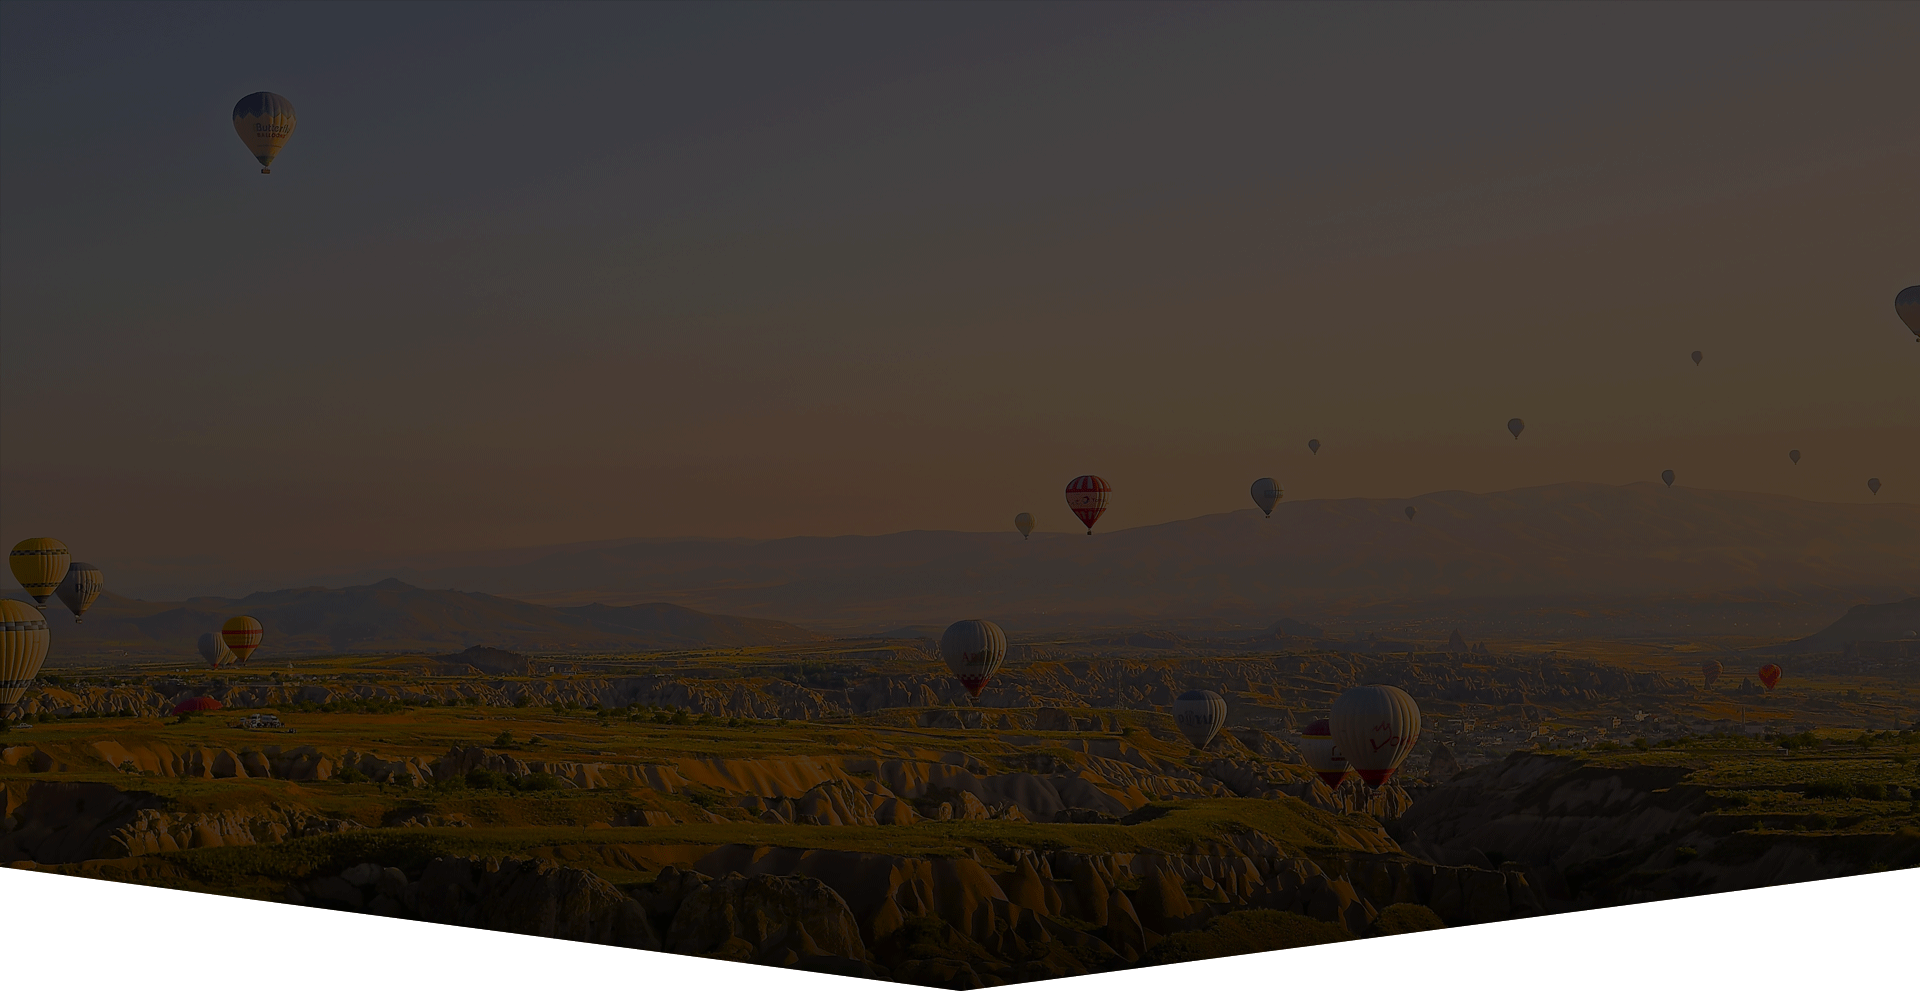
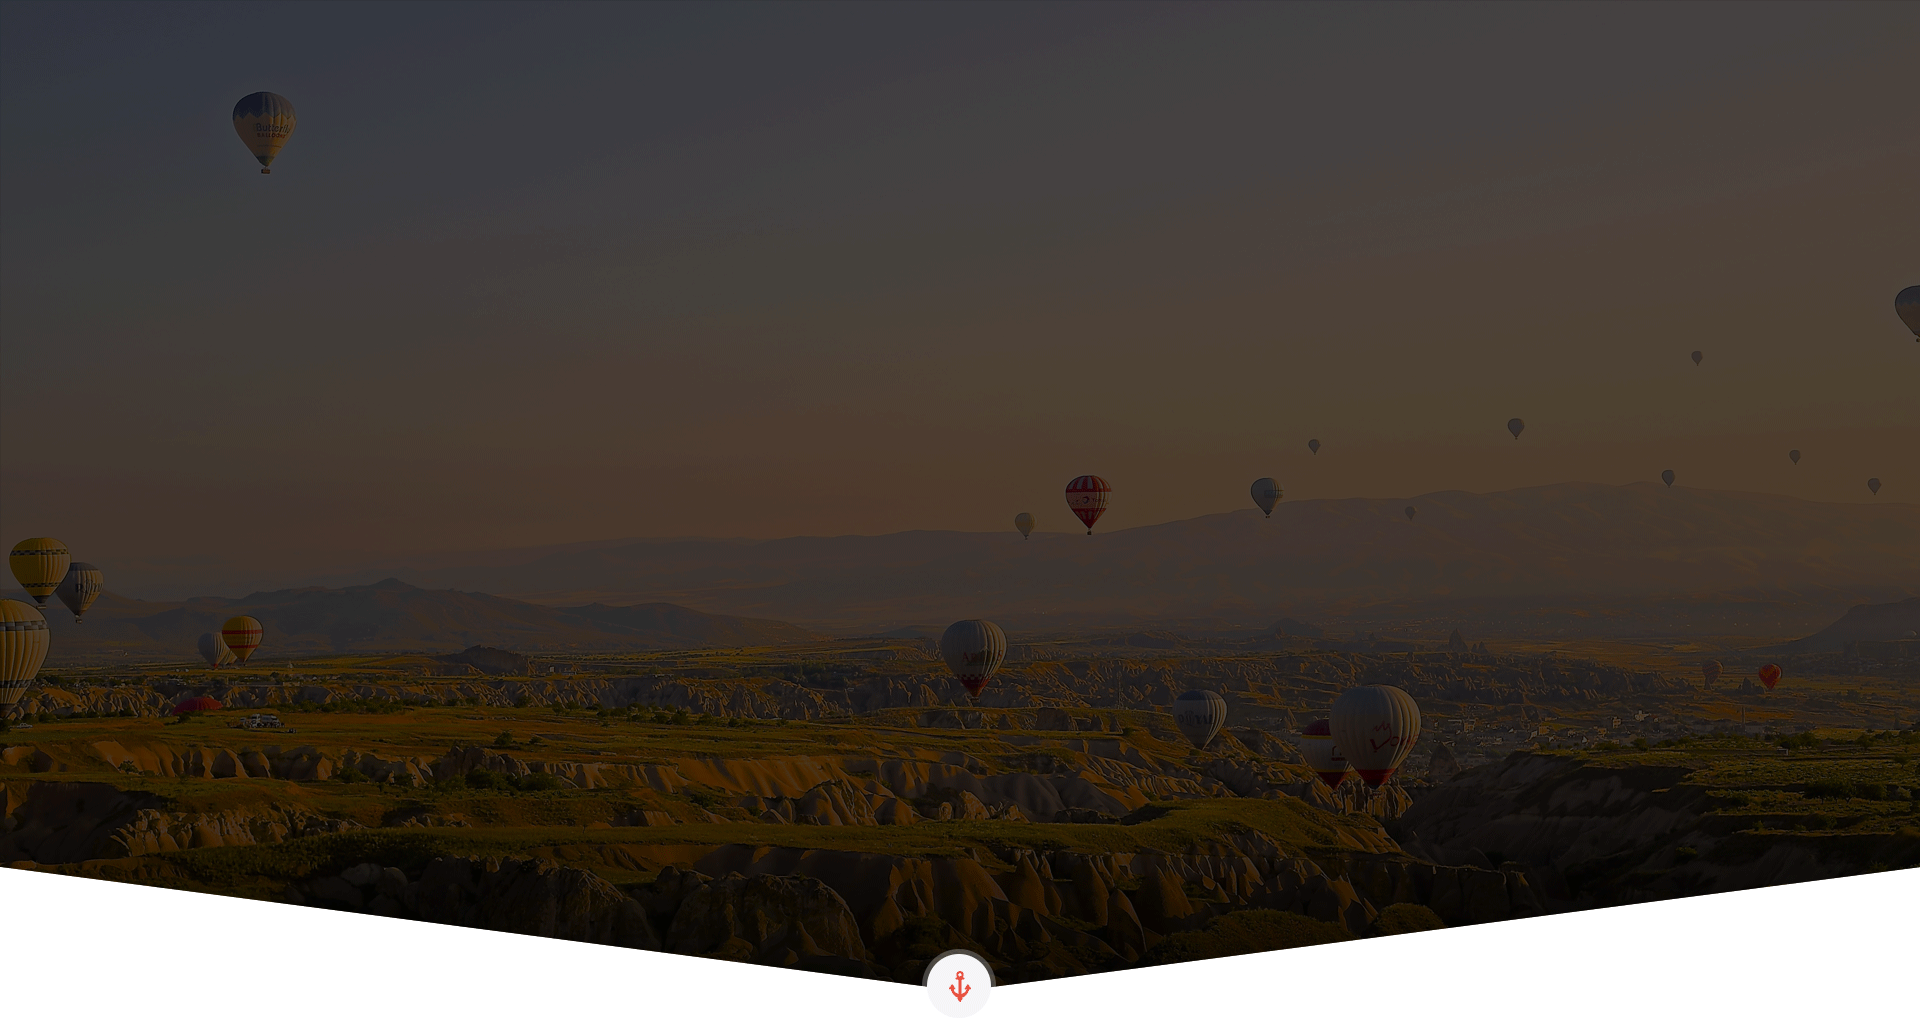
Slider блокыг бүрэн responsive болгож хийв

diff --git a/app/index.html b/app/index.html
@@ -4,7 +4,6 @@
     <meta name="viewport" content="width=device-width, initial-scale=1" />
     <link rel="preconnect" href="https://fonts.gstatic.com">
     <link href="https://fonts.googleapis.com/css2?family=Open+Sans:ital,wght@0,300;0,400;0,600;0,700;1,300;1,400&display=swap" rel="stylesheet">
-    
     <title>Explore, Dream, Escape</title>
     <meta
       name="keywords"
@@ -39,21 +38,26 @@
           <div></div>
           <div></div>
         </div>
-      <div class="slider">
-        <h3>Our Clients Are Our First Priority</h3>
-        <h1>Welcome to bino</h1>
-        <img src="./assets/images/line-dot-line.png" alt="solidImage"/>
-        <p>Lorem Ipsum is simply dummy text of the printing and typesetting industry. Lorem Ipsum has been the industry's standard dummy text ever since the 1500s, when an unknown printer took a galley of type and scrambled it to make a type specimen book.</p>
-        <button>Get started now</button>
-        <button>learn more</button>
-        <div>leftArrow</div>
-        <div>RightArrow</div>
       </div>
-      <div><img src="./assets/images/downIcon.png" alt="zanguuImage"/></div>
-  </div>
-  <picture class="header__background__image">
-    <img src="assets/images/headerBG.png" />
-  </picture>
+      <div class="slider slider--centered">
+        <div class="wrapper wrapper--py-header">
+          <h3 class="slider__title slider__title--small">Our Clients Are Our First Priority</h3>
+          <h1 class="slider__title slider__title--large">Welcome to bino</h1>
+          <img class="slider__line-dot-line" src="./assets/images/line-dot-line.png" alt="solidImage"/>
+          <p class="slider__text">Lorem Ipsum is simply dummy text of the printing and typesetting industry. Lorem Ipsum has been the industry's standard dummy text ever since the 1500s, when an unknown printer took a galley of type and scrambled it to make a type specimen book.</p>
+          <a href="javascript:void()" class="btn btn--orange btn--256">Get started now</a>
+          <a href="javascript:void()" class="btn btn--default btn--256">learn more</a>
+        </div>
+        <div class="slider__leftArrow">&#8249;</div>
+        <div class="slider__rightArrow">&#8250;</div>
+      </div>
+        <picture class="header__background__image">
+            <source media="(min-width:1200px)" srcset="assets/images/headerBG.png">
+            <source media="(min-width:700px)" srcset="assets/images/headerBGMedium.png">
+            <source media="(min-width:600px)" srcset="assets/images/headerBGSmall.png">
+            <source media="(min-width:465px)" srcset="assets/images/headerBGSmallest.png">
+            <img src="assets/images/headerBGSmallest.png" alt="smallScreenImage" style="width:auto;">
+        </picture>
     </header>
     <script src="./assets/scripts/App.js"></script>
   </body>

diff --git a/app/assets/styles/modules/_slider.css b/app/assets/styles/modules/_slider.css
@@ -1,0 +1,115 @@
+.slider {
+  position: relative;
+  /*  background-color: rgba($mainGrey, 0.3); */
+
+  &--centered {
+    text-align: center;
+  }
+  &__title {
+    color: $mainWhite;
+  }
+  &__title--small {
+    font-size: $fs14;
+    @mixin atSmall {
+      font-size: $fs16;
+    }
+    @mixin atMedium {
+      font-size: $fs24;
+    }
+    @mixin atLarge {
+      font-size: $fs24;
+    }
+  }
+  &__title--large {
+    font-size: 22px;
+    text-transform: uppercase;
+    @mixin atSmall {
+      font-size: 32px;
+    }
+    @mixin atMedium {
+      font-size: 54px;
+    }
+    @mixin atLarge {
+      font-size: 74px;
+    }
+  }
+
+  &__text {
+    color: $mainWhite;
+    font-size: $fs10;
+    width: 295px;
+    text-align: justify;
+    margin-left: auto;
+    margin-right: auto;
+    padding-bottom: 20px;
+    @mixin atSmall {
+      font-size: $fs12;
+      width: 380px;
+      padding-bottom: 40px;
+    }
+    @mixin atMedium {
+      font-size: $fs14;
+      width: 430px;
+    }
+    @mixin atLarge {
+      color: $mainWhite;
+      font-size: $fs14;
+      width: 578px;
+      text-align: justify;
+      margin-left: auto;
+      margin-right: auto;
+      padding-bottom: 74px;
+    }
+  }
+  &__leftArrow,
+  &__rightArrow {
+    position: absolute;
+    top: 10%;
+    color: $mainWhite;
+    font-size: 20px;
+    padding-bottom: 5px;
+    padding-left: 10px;
+    padding-right: 10px;
+    cursor: pointer;
+    background-color: $mainGrey;
+    @mixin atSmall {
+      top: 15%;
+    }
+    @mixin atMedium {
+      top: 32%;
+      padding-bottom: 6px;
+      padding-left: 14px;
+      padding-right: 14px;
+    }
+    @mixin atLarge {
+      top: 50%;
+      transform: translateY(-50%);
+      color: $mainWhite;
+      font-size: 40px;
+      padding-bottom: 10px;
+      padding-left: 20px;
+      padding-right: 20px;
+      cursor: pointer;
+      background-color: $mainGrey;
+    }
+  }
+  &__leftArrow:hover,
+  &__rightArrow:hover {
+    background-color: $mainOrange;
+  }
+  &__leftArrow {
+    margin-left: 10px;
+  }
+  &__rightArrow {
+    margin-right: 10px;
+    right: 0;
+  }
+  &__lefArrow i,
+  &__rightArrow i {
+    color: $mainWhite;
+  }
+  &__line-dot-line {
+    margin-top: 0px;
+    margin-bottom: 20px;
+  }
+}

diff --git a/app/assets/styles/modules/_btn.css b/app/assets/styles/modules/_btn.css
@@ -1,0 +1,48 @@
+.btn {
+  display: inline-block;
+  color: $mainWhite;
+  font-size: $fs8;
+  font-weight: 600;
+  text-transform: uppercase;
+  padding: 14px 25px;
+  box-shadow: 0px 2px 4.75px 0.25px rgba(0, 0, 0, 0.25);
+  cursor: pointer;
+  border: 1px solid $mainOrange;
+  border-radius: 3px;
+  @mixin atSmall {
+    font-size: $fs10;
+    font-weight: 600;
+    text-transform: uppercase;
+    padding: 18px 35px;
+  }
+  @mixin atMedium {
+    font-size: $fs12;
+    font-weight: 600;
+    padding: 22px 40px;
+  }
+  @mixin atLarge {
+    font-size: $fs14;
+    font-weight: 600;
+    padding: 24px 50px;
+  }
+  &--orange {
+    background-color: $mainOrange;
+  }
+  &--default {
+    margin-left: 30px;
+    background-color: transparent;
+    border: 1px solid $mainWhite;
+  }
+  &--256 {
+    width: 130px;
+    @mixin atSmall {
+      width: 180px;
+    }
+    @mixin atMedium {
+      width: 200px;
+    }
+    @mixin atLarge {
+      width: 256px;
+    }
+  }
+}

diff --git a/app/assets/styles/modules/_header.css b/app/assets/styles/modules/_header.css
@@ -6,14 +6,37 @@
     top: 0;
     z-index: -999;
   }
+  &__background__image img {
+    height: 900px;
+    overflow: hidden;
+    width: 100%;
+    height: 100%;
+    @mixin atSmall {
+      width: 100%;
+      height: 400px;
+      overflow: hidden;
+    }
+    @mixin atMedium {
+      width: 100%;
+      height: 800px;
+    }
+    @mixin atLarge {
+      width: 100%;
+      height: 100%;
+    }
+  }
   &__logo {
     display: inline-block;
     background-color: #363941;
     height: 54px;
     width: 140px;
+    margin-left: 40px;
     cursor: pointer;
     @mixin atMedium {
       margin-left: 40px;
+    }
+    @mixin atLarge {
+      margin-left: 0px;
     }
   }
   &__menu {

diff --git a/app/assets/styles/modules/_wrapper.css b/app/assets/styles/modules/_wrapper.css
@@ -16,6 +16,24 @@
     padding-top: 40px;
     padding-bottom: 40px;
   }
+  &--py-header {
+    padding-top: 30px;
+    padding-bottom: 30px;
+    background-color: rgba($mainGrey, 0.3);
+    @mixin atSmall {
+      padding-top: 50px;
+      padding-bottom: 50px;
+    }
+    @mixin atMedium {
+      padding-top: 70px;
+      padding-bottom: 70px;
+    }
+    @mixin atLarge {
+      padding-top: 180px;
+      padding-bottom: 100px;
+      background-color: transparent;
+    }
+  }
   &--no-padding-until-medium {
     padding-left: 0;
     padding-right: 0;

diff --git a/app/assets/styles/modules/_nav.css b/app/assets/styles/modules/_nav.css
@@ -5,6 +5,9 @@
     display: block;
     padding-right: 100px;
   }
+  @mixin atLarge {
+    padding-right: 0px;
+  }
   ul {
     margin: 0;
     padding: 0;
@@ -28,8 +31,8 @@
     color: $mainWhite;
     font-size: $fs14;
     text-transform: uppercase;
-    padding-top: 14px;
-    padding-bottom: 14px;
+    padding-top: 17px;
+    padding-bottom: 17px;
     transition: 0.3s ease;
   }
   a:hover {

diff --git a/app/assets/styles/base/_mixins.css b/app/assets/styles/base/_mixins.css
@@ -1,17 +1,17 @@
 @define-mixin atSmall {
-  @media (min-width: 530px) {
+  @media (min-width: 600px) {
     @mixin-content;
   }
 }
 
 @define-mixin atMedium {
-  @media (min-width: 800px) {
+  @media (min-width: 700px) {
     @mixin-content;
   }
 }
 
 @define-mixin atLarge {
-  @media (min-width: 1010px) {
+  @media (min-width: 1200px) {
     @mixin-content;
   }
 }

diff --git a/app/assets/styles/styles.css b/app/assets/styles/styles.css
@@ -6,3 +6,5 @@
 @import "modules/_header.css";
 @import "modules/_nav.css";
 @import "modules/_mobile-menu.css";
+@import "modules/_slider.css";
+@import "modules/_btn.css";

diff --git a/app/assets/styles/base/_variables.css b/app/assets/styles/base/_variables.css
@@ -2,6 +2,8 @@ $mainWhite: #f4f5f9;
 $mainOrange: #e74c3c;
 $mainGrey: #6a6a6a;
 
+$fs8: 0.5rem;
+$fs10: 0.625rem;
 $fs12: 0.75rem;
 $fs14: 0.875em;
 $fs16: 1rem;

diff --git a/app/assets/styles/base/_global.css b/app/assets/styles/base/_global.css
@@ -14,6 +14,7 @@ img {
 
 * {
   box-sizing: border-box;
+  transition: 0.3s ease;
 }
 
 a {
